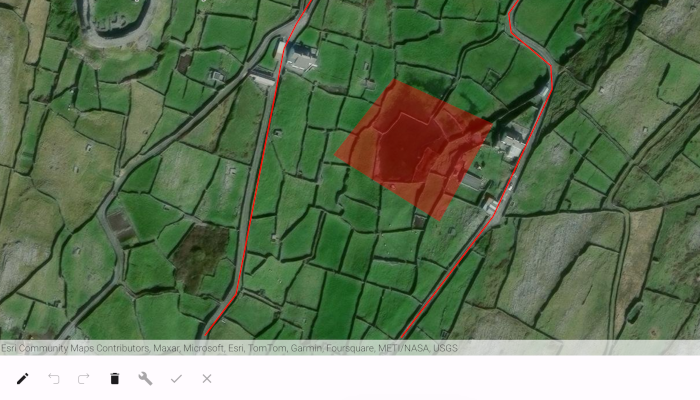
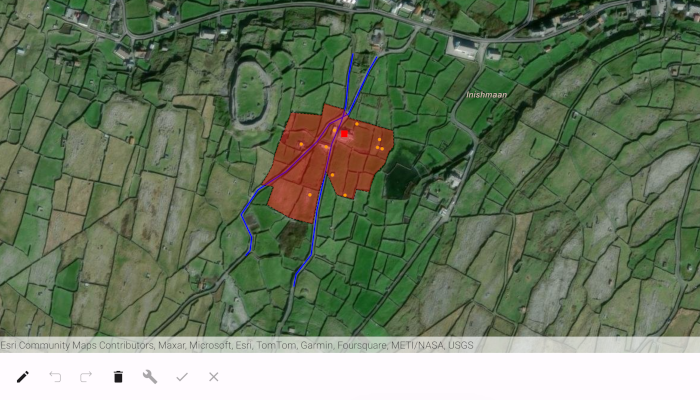
Add initial geometries

diff --git a/samples/create-and-edit-geometries/src/main/java/com/esri/arcgismaps/sample/createandeditgeometries/components/CreateAndEditGeometriesViewModel.kt b/samples/create-and-edit-geometries/src/main/java/com/esri/arcgismaps/sample/createandeditgeometries/components/CreateAndEditGeometriesViewModel.kt
@@ -34,12 +34,15 @@ import com.arcgismaps.mapping.BasemapStyle
 import com.arcgismaps.mapping.Viewpoint
 import com.arcgismaps.mapping.symbology.SimpleFillSymbol
 import com.arcgismaps.mapping.symbology.SimpleFillSymbolStyle
+import com.arcgismaps.mapping.symbology.SimpleLineSymbol
+import com.arcgismaps.mapping.symbology.SimpleLineSymbolStyle
+import com.arcgismaps.mapping.symbology.SimpleMarkerSymbol
+import com.arcgismaps.mapping.symbology.SimpleMarkerSymbolStyle
 import com.arcgismaps.mapping.view.Graphic
 import com.arcgismaps.mapping.view.GraphicsOverlay
 import com.arcgismaps.mapping.view.SingleTapConfirmedEvent
 import com.arcgismaps.mapping.view.geometryeditor.FreehandTool
 import com.arcgismaps.mapping.view.geometryeditor.GeometryEditor
-import com.arcgismaps.mapping.view.geometryeditor.GeometryEditorStyle
 import com.arcgismaps.mapping.view.geometryeditor.ReticleVertexTool
 import com.arcgismaps.mapping.view.geometryeditor.ShapeTool
 import com.arcgismaps.mapping.view.geometryeditor.ShapeToolType
@@ -68,8 +71,6 @@ class CreateAndEditGeometriesViewModel(application: Application) : AndroidViewMo
     // create a MapViewProxy that will be used to identify features in the MapView and set the viewpoint
     val mapViewProxy = MapViewProxy()
 
-    // create a geometryEditorStyle
-    private val geometryEditorStyle = GeometryEditorStyle()
     // create a graphic to hold graphics identified on tap
     private var identifiedGraphic = Graphic()
     // create a graphics overlay
@@ -104,45 +105,32 @@ class CreateAndEditGeometriesViewModel(application: Application) : AndroidViewMo
     private val _currentGeometryType = MutableStateFlow<GeometryType>(GeometryType.Unknown)
     val currentGeometryType = _currentGeometryType.asStateFlow()
 
-    // Json formatted strings for initial geometries
-    val houseCoordinatesJson = """{"x": -1067898.59, "y": 6998366.62,
-    "spatialReference": {"latestWkid":3857, "wkid":102100}}"""
-
-    val outbuildingCoordinatesJson = """{"points":[[-1067984.26,6998346.28],[-1067966.80,6998244.84],
-            [-1067921.88,6998284.65],[-1067934.36,6998340.74],
-            [-1067917.93,6998373.97],[-1067828.30,6998355.28],
-            [-1067832.25,6998339.70],[-1067823.10,6998336.93],
-            [-1067873.22,6998386.78],[-1067896.72,6998244.49]],
-            "spatialReference":{"latestWkid":3857,"wkid":102100}}"""
-
-    val road1CoordinatesJson = """{"paths":[[[-1068095.40,6998123.52],[-1068086.16,6998134.60],
-            [-1068083.20,6998160.44],[-1068104.27,6998205.37],
-            [-1068070.63,6998255.22],[-1068014.44,6998291.54],
-            [-1067952.33,6998351.85],[-1067927.93,6998386.93],
-            [-1067907.97,6998396.78],[-1067889.86,6998406.63],
-            [-1067848.08,6998495.26],[-1067832.92,6998521.11]]],
-            "spatialReference":{"latestWkid":3857,"wkid":102100}}"""
-
-    val road2CoordinatesJson = """{"paths":[[[-1067999.28,6998061.97],[-1067994.48,6998086.59],
-            [-1067964.53,6998125.37],[-1067952.70,6998215.84],
-            [-1067923.13,6998347.54],[-1067903.90,6998391.86],
-            [-1067895.40,6998422.02],[-1067891.70,6998460.18],
-            [-1067889.49,6998483.56],[-1067880.98,6998527.26]]],
-            "spatialReference":{"latestWkid":3857,"wkid":102100}}"""
-
-    val boundaryCoordinatesJson = """{ "rings": [[[-1067943.67,6998403.86],[-1067938.17,6998427.60],
-            [-1067898.77,6998415.86],[-1067888.26,6998398.80],
-            [-1067800.85,6998372.93],[-1067799.61,6998342.81],
-            [-1067809.38,6998330.00],[-1067817.07,6998307.85],
-            [-1067838.07,6998285.34],[-1067849.10,6998250.38],
-            [-1067874.02,6998256.00],[-1067879.87,6998235.95],
-            [-1067913.41,6998245.03],[-1067934.84,6998291.34],
-            [-1067948.41,6998251.90],[-1067961.18,6998186.68],
-            [-1068008.59,6998199.49],[-1068052.89,6998225.45],
-            [-1068039.37,6998261.11],[-1068064.12,6998265.26],
-            [-1068043.32,6998299.88],[-1068036.25,6998327.93],
-            [-1068004.43,6998409.28],[-1067943.67,6998403.86]]],
-            "spatialReference":{"latestWkid":3857,"wkid":102100}}"""
+    // fill styles to be used for graphics
+    private val pointSymbol = SimpleMarkerSymbol(
+        style = SimpleMarkerSymbolStyle.Square,
+        color = Color.red,
+        size = 10f
+    )
+    private val multiPointSymbol = SimpleMarkerSymbol(
+        style = SimpleMarkerSymbolStyle.Circle,
+        color = Color.yellow,
+        size = 5f
+    )
+    private val polylineSymbol =  SimpleLineSymbol(
+        style = SimpleLineSymbolStyle.Solid,
+        color = Color.blue,
+        width = 2f
+    )
+    private val polygonLineSymbol = SimpleLineSymbol(
+        style = SimpleLineSymbolStyle.Dash,
+        color = Color.black,
+        width = 1f
+    )
+    private val polygonSymbol = SimpleFillSymbol(
+        style = SimpleFillSymbolStyle.Solid,
+        color = Color.fromRgba(r = 255, g = 0, b = 0, a = 100),
+        outline = polygonLineSymbol
+    )
 
     init {
         viewModelScope.launch {
@@ -156,32 +144,32 @@ class CreateAndEditGeometriesViewModel(application: Application) : AndroidViewMo
                 // create graphics for the initial geometries and add them to the graphics overlay
                 graphicsOverlay.graphics.add(
                     Graphic(
-                        geometry = Geometry.fromJsonOrNull(houseCoordinatesJson) as Point,
-                        symbol = geometryEditorStyle.vertexSymbol
+                        geometry = Geometry.fromJsonOrNull(houseCoordinatesJson),
+                        symbol = pointSymbol
                     )
                 )
                 graphicsOverlay.graphics.add(
                     Graphic(
                         geometry = Geometry.fromJsonOrNull(outbuildingCoordinatesJson),
-                        symbol = geometryEditorStyle.midVertexSymbol
+                        symbol = multiPointSymbol
                     )
                 )
                 graphicsOverlay.graphics.add(
                     Graphic(
                         geometry = Geometry.fromJsonOrNull(road1CoordinatesJson),
-                        symbol = geometryEditorStyle.lineSymbol
+                        symbol = polylineSymbol
                     )
                 )
                 graphicsOverlay.graphics.add(
                     Graphic(
                         geometry = Geometry.fromJsonOrNull(road2CoordinatesJson),
-                        symbol = geometryEditorStyle.lineSymbol
+                        symbol = polylineSymbol
                     )
                 )
                 graphicsOverlay.graphics.add(
                     Graphic(
                         geometry = Geometry.fromJsonOrNull(boundaryCoordinatesJson),
-                        symbol = geometryEditorStyle.fillSymbol
+                        symbol = polygonSymbol
                     )
                 )
             }
@@ -295,14 +283,10 @@ class CreateAndEditGeometriesViewModel(application: Application) : AndroidViewMo
 
         // give the graphic an appropriate fill based on the geometry type
         when (geometry) {
-            is Point, is Multipoint -> graphic.symbol = geometryEditorStyle.vertexSymbol
-            is Polyline -> graphic.symbol = geometryEditorStyle.lineSymbol
-            // give polygons a translucent fill to avoid obscuring geometries or features underneath
-            is Polygon -> graphic.symbol =
-                SimpleFillSymbol(
-                style = SimpleFillSymbolStyle.Solid,
-                color = Color(1694433280) // r = 255, g = 0, b = 0, a = 100
-            )
+            is Point -> graphic.symbol = pointSymbol
+            is Multipoint -> graphic.symbol = multiPointSymbol
+            is Polyline -> graphic.symbol = polylineSymbol
+            is Polygon -> graphic.symbol = polygonSymbol
             else -> {}
         }
         // add the graphic to the graphics overlay
@@ -343,5 +327,53 @@ class CreateAndEditGeometriesViewModel(application: Application) : AndroidViewMo
             }
         }
     }
+
+    // json formatted strings for initial geometries
+    private val houseCoordinatesJson = """{"x": -1067898.59, "y": 6998366.62,
+    "spatialReference": {"latestWkid":3857, "wkid":102100}}"""
+
+    private val outbuildingCoordinatesJson = """{"points":[[-1067984.26,6998346.28],[-1067966.80,6998244.84],
+            [-1067921.88,6998284.65],[-1067934.36,6998340.74],
+            [-1067917.93,6998373.97],[-1067828.30,6998355.28],
+            [-1067832.25,6998339.70],[-1067823.10,6998336.93],
+            [-1067873.22,6998386.78],[-1067896.72,6998244.49]],
+            "spatialReference":{"latestWkid":3857,"wkid":102100}}"""
+
+    private val road1CoordinatesJson = """{"paths":[[[-1068095.40,6998123.52],[-1068086.16,6998134.60],
+            [-1068083.20,6998160.44],[-1068104.27,6998205.37],
+            [-1068070.63,6998255.22],[-1068014.44,6998291.54],
+            [-1067952.33,6998351.85],[-1067927.93,6998386.93],
+            [-1067907.97,6998396.78],[-1067889.86,6998406.63],
+            [-1067848.08,6998495.26],[-1067832.92,6998521.11]]],
+            "spatialReference":{"latestWkid":3857,"wkid":102100}}"""
+
+    private val road2CoordinatesJson = """{"paths":[[[-1067999.28,6998061.97],[-1067994.48,6998086.59],
+            [-1067964.53,6998125.37],[-1067952.70,6998215.84],
+            [-1067923.13,6998347.54],[-1067903.90,6998391.86],
+            [-1067895.40,6998422.02],[-1067891.70,6998460.18],
+            [-1067889.49,6998483.56],[-1067880.98,6998527.26]]],
+            "spatialReference":{"latestWkid":3857,"wkid":102100}}"""
+
+    private val boundaryCoordinatesJson = """{ "rings": [[[-1067943.67,6998403.86],[-1067938.17,6998427.60],
+            [-1067898.77,6998415.86],[-1067888.26,6998398.80],
+            [-1067800.85,6998372.93],[-1067799.61,6998342.81],
+            [-1067809.38,6998330.00],[-1067817.07,6998307.85],
+            [-1067838.07,6998285.34],[-1067849.10,6998250.38],
+            [-1067874.02,6998256.00],[-1067879.87,6998235.95],
+            [-1067913.41,6998245.03],[-1067934.84,6998291.34],
+            [-1067948.41,6998251.90],[-1067961.18,6998186.68],
+            [-1068008.59,6998199.49],[-1068052.89,6998225.45],
+            [-1068039.37,6998261.11],[-1068064.12,6998265.26],
+            [-1068043.32,6998299.88],[-1068036.25,6998327.93],
+            [-1068004.43,6998409.28],[-1067943.67,6998403.86]]],
+            "spatialReference":{"latestWkid":3857,"wkid":102100}}"""
+
+    /**
+     * Define a blue color for polylines.
+     */
+    private val Color.Companion.blue: Color
+        get() {
+            return fromRgba(0, 0, 255, 255)
+        }
 
 }
